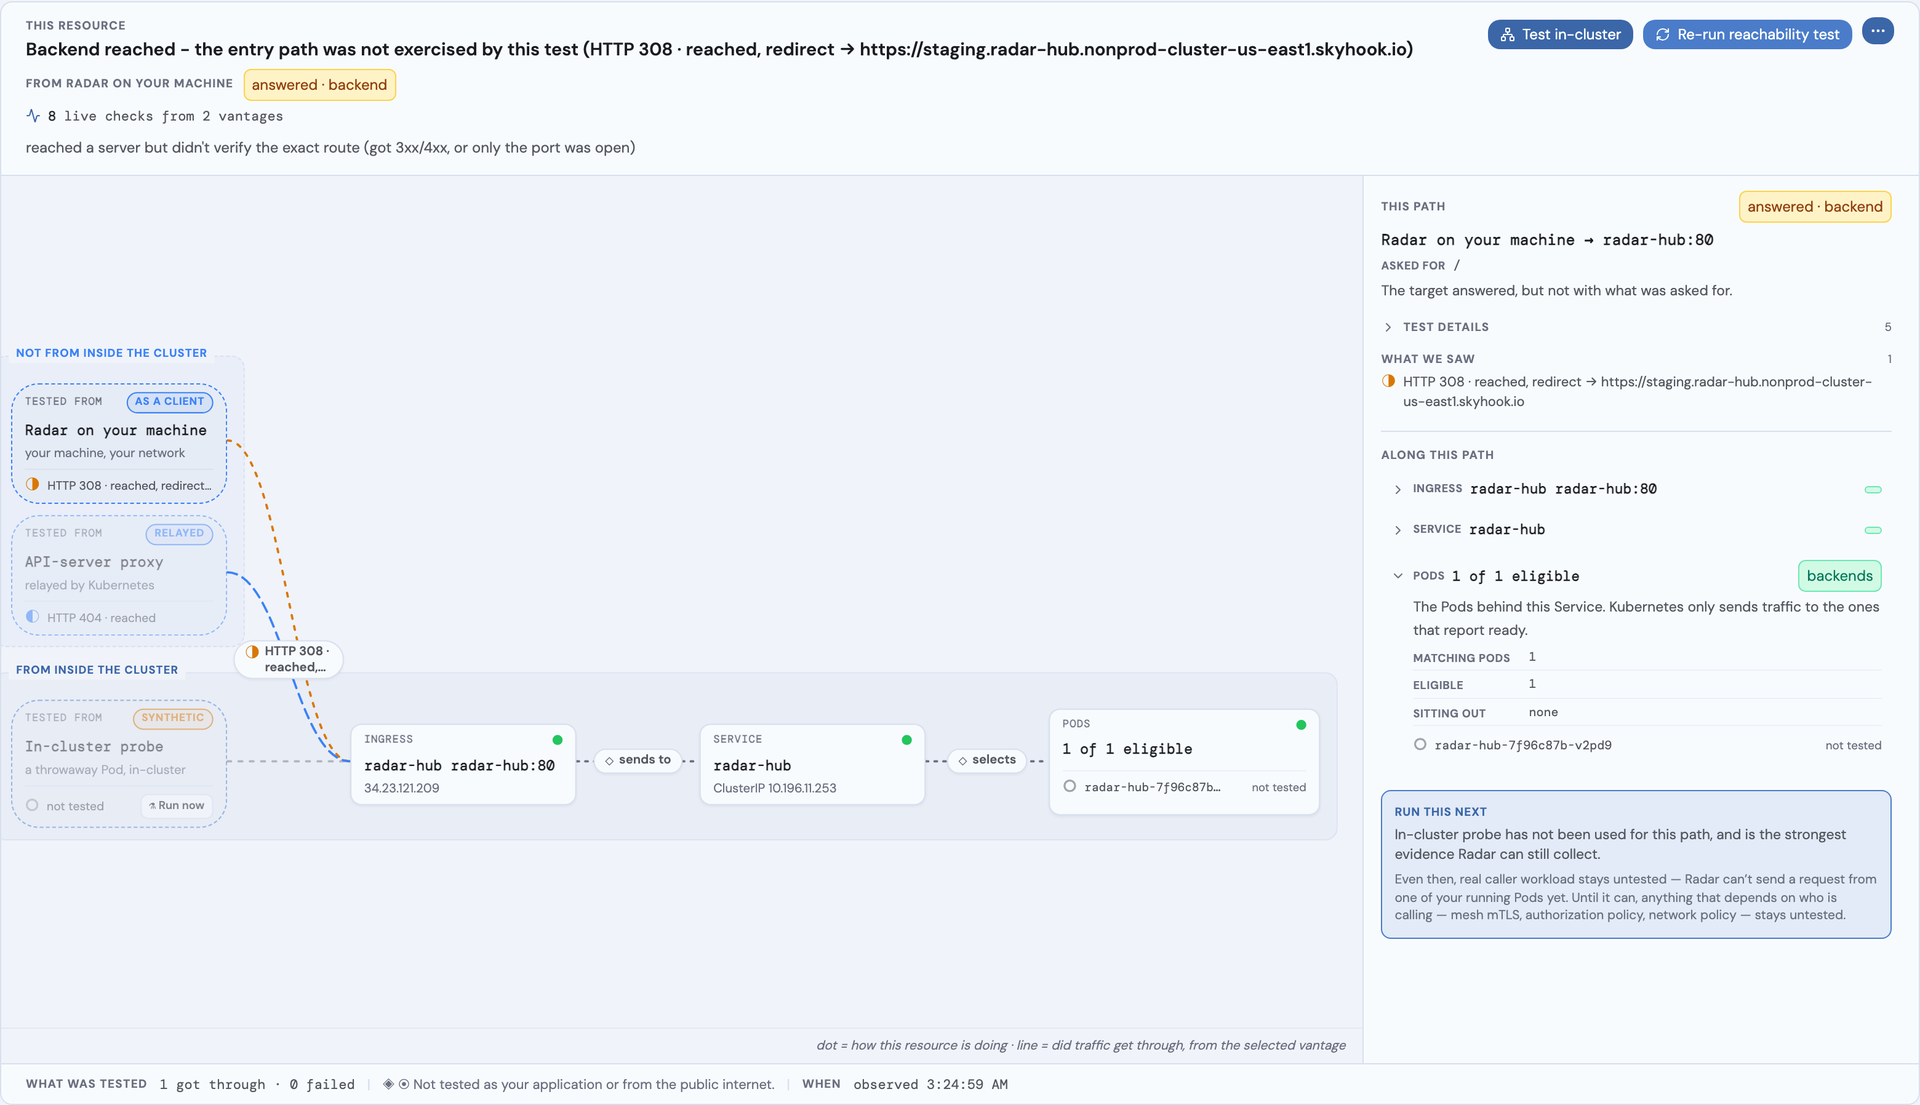
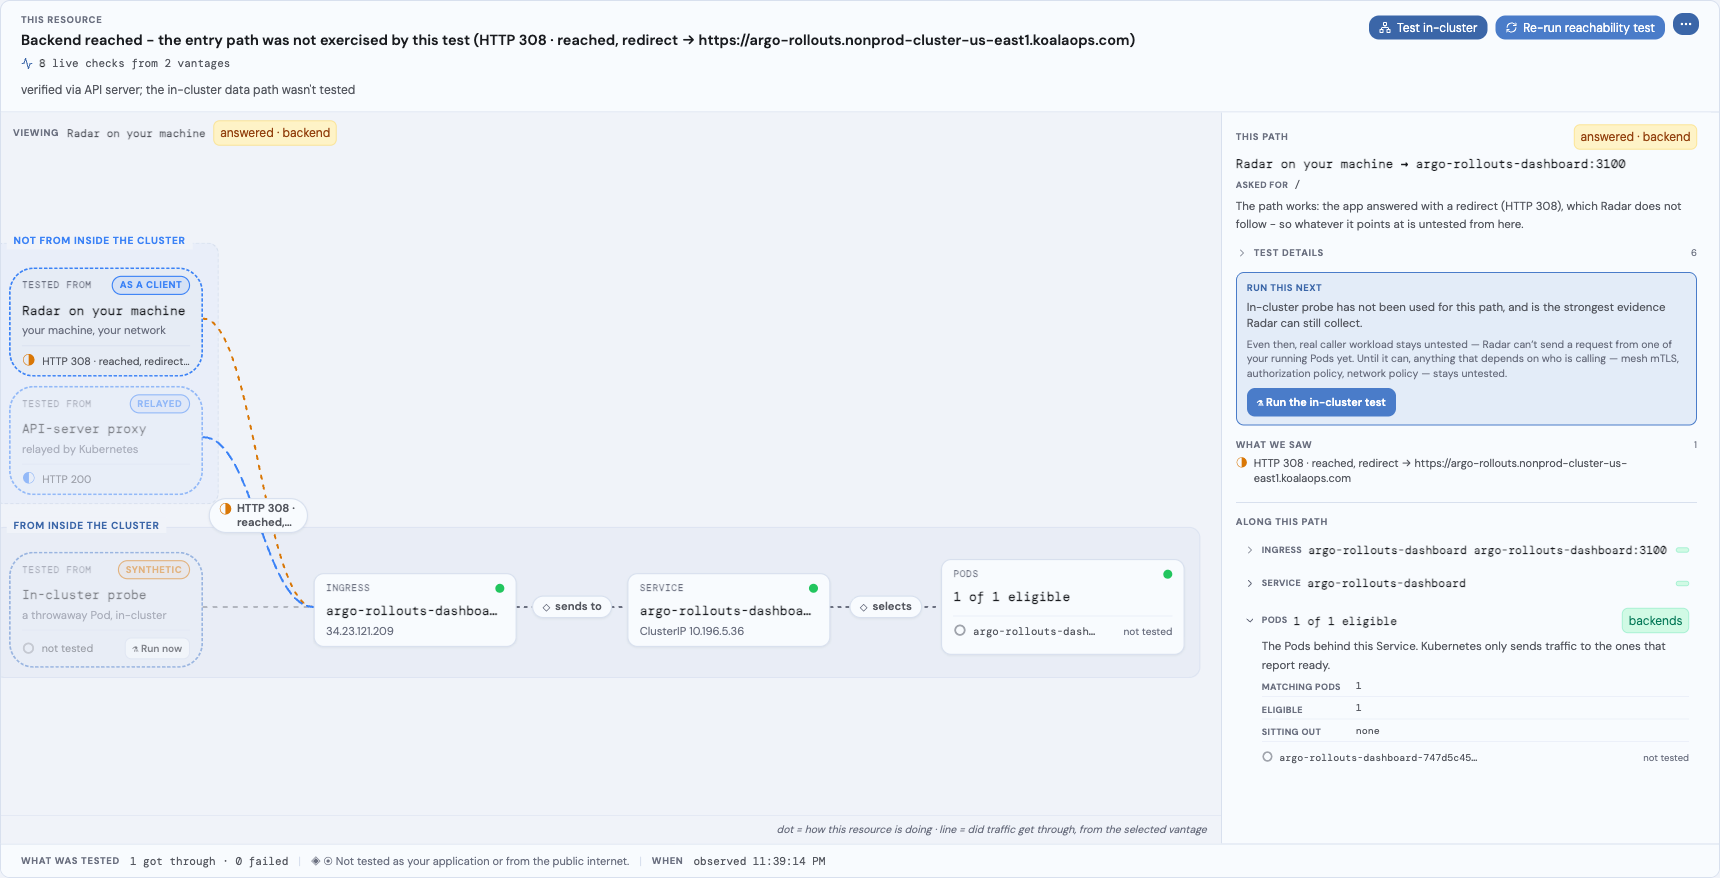
docs: recapture the reachability screenshots against the current header (#1383)
## Summary

The four Reachability screenshots on the docs page were captured before
the header redesign, so they show a UI that no longer exists: a
vantage-scoped chip that changed on every click, and two competing bands
where there is now a single ranked problem list. Anyone reading the page
against a current build would be looking at a different product.

## What changed

Recaptured all four against live clusters, and re-picked the subjects so
each teaches something the others don't — the previous set had two
frames that differed only in their details.

- **Parallel entries** — a Service with an Ingress *and* an HTTPRoute,
where the HTTPRoute is unattached to any listener. One frame carries the
new header, the ranked problem list naming the broken entry, and the
point that a dead front door doesn't condemn a Service another entry
still serves.
- **Non-HTTP** — a Redis Service *after* an in-cluster TCP test.
Previously this was a "nothing tested yet" frame; now it shows the probe
result and the coverage line stating the ceiling of that proof: TCP
connections only, application protocol not checked.
- **Dual-protocol port** — kube-dns declaring TCP and UDP on port 53,
listed as two separate paths in the PATH picker rather than folded into
one.
- **Ingress front door** — an Ingress *subject* dialled from a laptop,
answering 308, with the headline honest that a backend-only confirmation
does not exercise the entry path.
[…]

diff --git a/docs/reachability.md b/docs/reachability.md
@@ -92,7 +92,7 @@ Every claim on the page carries its evidence: the verdict band states the live-c
 **RBAC for active probes (from a laptop):** the user identity reading the trace must hold `get services/proxy` and `get pods/proxy` in the target namespace. In-cluster Radar uses the data path directly and doesn't need these. To disable the active layer entirely, deny those permissions to the role Radar uses.
 
 
-![A Redis Service: the in-cluster probe capsule offers Run now, and the path shows the declared TCP route](images/reachability/reachability-non-http-service.png)
+![A Redis Service after an in-cluster TCP test: the probe capsule reports what it saw, and the coverage line states that only the transport was checked](images/reachability/reachability-non-http-service.png)
 
 *A non-HTTP Service (Redis on 6379) after an in-cluster test: the throwaway Pod connected over TCP, and the coverage line states the ceiling of that proof - "TCP connections only - application protocol not checked".*
 
